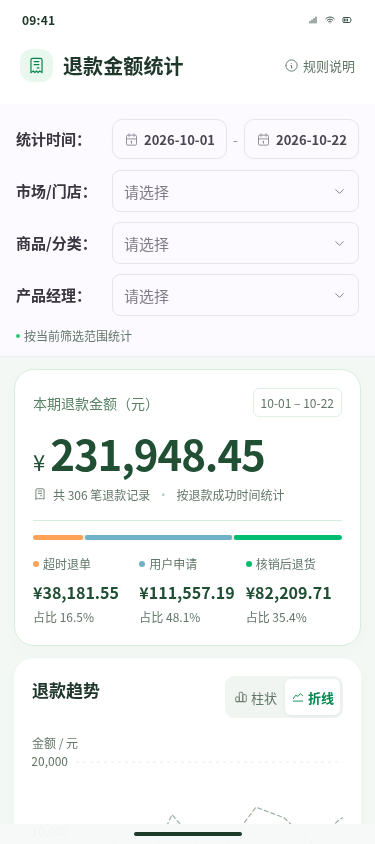
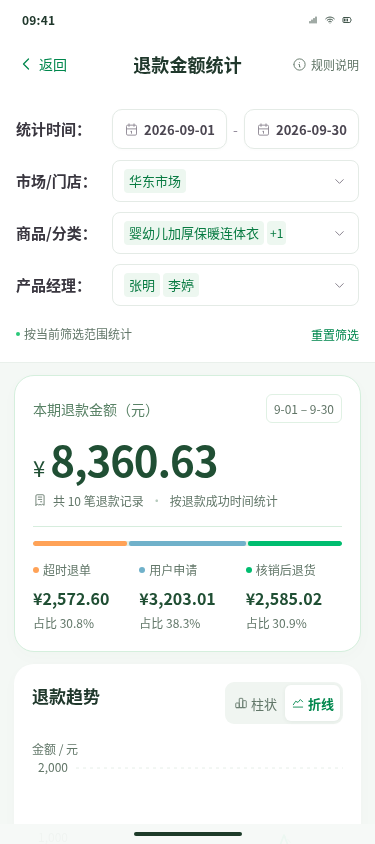
style: center page title and use white filter background

diff --git a/output/refund-report-mobile/index.html b/output/refund-report-mobile/index.html
@@ -163,15 +163,15 @@ button,input{font:inherit}button{cursor:pointer}button:disabled{cursor:default}b
 
 /* Reference: vertically aligned filters and a floating calendar range picker. */
 .phone{overflow:clip}
-.filters{padding:14px 16px 10px;background:#fcf9ff;position:relative;top:auto}
+.filters{padding:14px 16px 10px;background:#fff;position:relative;top:auto}
 .filter-grid{display:flex;flex-direction:column;gap:10px;padding:0}
 .frow,.date-filter-row{display:grid;grid-template-columns:88px minmax(0,1fr);align-items:center;gap:8px;min-width:0}
 .flab,.date-filter-label{margin:0;font-size:15px;font-weight:600;line-height:1.5;color:#39363f;white-space:nowrap}
-.fbox{height:42px;border:1px solid #e9e3ed;border-radius:8px;padding:0 11px;background:#fcf9ff;gap:8px}
+.fbox{height:42px;border:1px solid #e4ebe6;border-radius:8px;padding:0 11px;background:#fff;gap:8px}
 .fbox .ph{font-size:15px;color:#827c87}.fbox .car{color:#817b86}.car svg{width:15px;height:15px}
 .fbox .fchip{font-size:13px;line-height:24px;background:#edf7f0}.fbox .fchip.more{font-size:12px}
 .date-filter-row{margin-bottom:10px;min-height:42px}.date-range-fields{display:flex;align-items:center;gap:6px;min-width:0}
-.date-range-fields button{display:flex;align-items:center;justify-content:center;gap:5px;min-width:0;flex:1;height:40px;border:1px solid #e9e3ed;border-radius:10px;background:#fcf9ff;color:#4b4651;padding:0 6px;font-size:13px;font-weight:600;font-variant-numeric:tabular-nums;white-space:nowrap;box-shadow:0 1px 3px #51445d06}
+.date-range-fields button{display:flex;align-items:center;justify-content:center;gap:5px;min-width:0;flex:1;height:40px;border:1px solid #e4ebe6;border-radius:10px;background:#fff;color:#4b4651;padding:0 6px;font-size:13px;font-weight:600;font-variant-numeric:tabular-nums;white-space:nowrap;box-shadow:0 1px 3px #51445d06}
 .date-range-fields svg{width:15px;height:15px;color:#8f8994}.date-range-fields .date-separator{color:#958d9d;font-size:14px}
 .filter-meta{margin-top:10px;min-height:20px}.filter-note{font-size:12px}.clr{font-size:12px}
 .drawer[data-mode=date]{left:12px;right:12px;top:50%;bottom:auto;min-height:0;height:auto;max-height:calc(100% - 48px);border-radius:20px;overflow:hidden;transform:translateY(-46%) scale(.98);opacity:0;box-shadow:0 16px 64px #293a2d24;transition:opacity .2s,transform .2s}
@@ -189,6 +189,12 @@ button,input{font:inherit}button{cursor:pointer}button:disabled{cursor:default}b
 @media(max-width:360px){.filters{padding-left:12px;padding-right:12px}.frow,.date-filter-row{grid-template-columns:78px minmax(0,1fr);gap:5px}.flab,.date-filter-label{font-size:14px}.date-range-fields{gap:4px}.date-range-fields button{font-size:11px;gap:3px;padding:0 3px}.date-range-fields svg{width:12px;height:12px}.fbox .ph{font-size:14px}.calendar-toolbar{row-gap:5px}.calendar-month{width:100%;justify-content:space-between}.calendar-shortcuts{flex-basis:100%}.calendar-shortcuts button{font-size:12px}.calendar-days{row-gap:3px}.calendar-day{height:38px}.calendar-day span{width:31px;height:31px}.drawer[data-mode=date] .dft{padding-left:12px;padding-right:12px;gap:7px}.date-selection-summary[hidden]{display:none}.date-selection-summary{font-size:10px}.drawer[data-mode=date] .dft button{flex-basis:58px;font-size:14px}.drawer[data-mode=date] .dft .ok{flex-basis:64px}}
 @media(prefers-reduced-motion:reduce){.drawer,.dmask{transition:none!important}}
 
+/* Centered page navigation and white filter surface. */
+.nav{height:60px;padding:0 16px;justify-content:space-between;gap:0}
+.nav .brand-title{position:absolute;left:50%;top:50%;transform:translate(-50%,-50%);margin:0;font-size:18px;line-height:1.5;font-weight:600;white-space:nowrap;pointer-events:none}
+.nav-back{display:flex;align-items:center;gap:3px;min-height:44px;min-width:56px;margin-left:-4px;padding:0 4px;border:0;background:none;color:var(--pri);font-size:14px}
+.nav-back svg{width:20px;height:20px}.nav .help{margin-left:0;padding:10px 0;font-size:12px;min-height:44px}
+@media(max-width:360px){.nav{padding-left:12px;padding-right:12px}.nav .brand-title{font-size:17px}.nav-back{font-size:13px;min-width:52px}.nav .help{font-size:11px;gap:3px}}
 </style>
[1 lines of base64/hex data omitted]
 </head>
@@ -198,7 +204,7 @@ button,input{font:inherit}button{cursor:pointer}button:disabled{cursor:default}b
 
   <div class="phone">
     <div class="statusbar" aria-hidden="true"><span>09:41</span><div class="status-icons"><svg class="icon" xmlns="http://www.w3.org/2000/svg" width="18" height="18" viewBox="0 0 24 24" fill="none" stroke="currentColor" stroke-width="1.5" stroke-linecap="round" stroke-linejoin="round" aria-hidden="true"> <path stroke="none" d="M0 0h24v24H0z" fill="none"/> <path d="M6 18l0 -3" /> <path d="M10 18l0 -6" /> <path d="M14 18l0 -9" /> <path d="M18 18l0 -12" /> </svg><svg class="icon" xmlns="http://www.w3.org/2000/svg" width="18" height="18" viewBox="0 0 24 24" fill="none" stroke="currentColor" stroke-width="1.5" stroke-linecap="round" stroke-linejoin="round" aria-hidden="true"> <path stroke="none" d="M0 0h24v24H0z" fill="none"/> <path d="M12 18l.01 0" /> <path d="M9.172 15.172a4 4 0 0 1 5.656 0" /> <path d="M6.343 12.343a8 8 0 0 1 11.314 0" /> <path d="M3.515 9.515c4.686 -4.687 12.284 -4.687 17 0" /> </svg><svg class="icon" xmlns="http://www.w3.org/2000/svg" width="18" height="18" viewBox="0 0 24 24" fill="none" stroke="currentColor" stroke-width="1.5" stroke-linecap="round" stroke-linejoin="round" aria-hidden="true"> <path stroke="none" d="M0 0h24v24H0z" fill="none"/> <path d="M6 7h11a2 2 0 0 1 2 2v.5a.5 .5 0 0 0 .5 .5a.5 .5 0 0 1 .5 .5v3a.5 .5 0 0 1 -.5 .5a.5 .5 0 0 0 -.5 .5v.5a2 2 0 0 1 -2 2h-11a2 2 0 0 1 -2 -2v-6a2 2 0 0 1 2 -2" /> <path d="M7 10l0 4" /> <path d="M10 10l0 4" /> <path d="M13 10l0 4" /> </svg></div></div>
-    <header class="nav"><div class="brand-icon"><svg class="icon" xmlns="http://www.w3.org/2000/svg" width="18" height="18" viewBox="0 0 24 24" fill="none" stroke="currentColor" stroke-width="1.5" stroke-linecap="round" stroke-linejoin="round" aria-hidden="true"> <path stroke="none" d="M0 0h24v24H0z" fill="none"/> <path d="M5 21v-16a2 2 0 0 1 2 -2h10a2 2 0 0 1 2 2v16l-3 -2l-2 2l-2 -2l-2 2l-2 -2l-3 2m4 -14h6m-6 4h6m-2 4h2" /> </svg></div><div><div class="brand-title">退款金额统计</div></div><button class="help" id="btnHelp"><svg class="icon" xmlns="http://www.w3.org/2000/svg" width="18" height="18" viewBox="0 0 24 24" fill="none" stroke="currentColor" stroke-width="1.5" stroke-linecap="round" stroke-linejoin="round" aria-hidden="true"> <path stroke="none" d="M0 0h24v24H0z" fill="none"/> <path d="M3 12a9 9 0 1 0 18 0a9 9 0 0 0 -18 0" /> <path d="M12 9h.01" /> <path d="M11 12h1v4h1" /> </svg><span>规则说明</span></button></header>
+    <header class="nav"><button class="nav-back" id="btnBack" aria-label="返回上一页"><svg class="icon" xmlns="http://www.w3.org/2000/svg" width="18" height="18" viewBox="0 0 24 24" fill="none" stroke="currentColor" stroke-width="1.5" stroke-linecap="round" stroke-linejoin="round" aria-hidden="true"> <path stroke="none" d="M0 0h24v24H0z" fill="none"/> <path d="M15 6l-6 6l6 6" /> </svg><span>返回</span></button><h1 class="brand-title">退款金额统计</h1><button class="help" id="btnHelp"><svg class="icon" xmlns="http://www.w3.org/2000/svg" width="18" height="18" viewBox="0 0 24 24" fill="none" stroke="currentColor" stroke-width="1.5" stroke-linecap="round" stroke-linejoin="round" aria-hidden="true"> <path stroke="none" d="M0 0h24v24H0z" fill="none"/> <path d="M3 12a9 9 0 1 0 18 0a9 9 0 0 0 -18 0" /> <path d="M12 9h.01" /> <path d="M11 12h1v4h1" /> </svg><span>规则说明</span></button></header>
 
     <div class="scroll">
       <section class="filters" aria-label="统计筛选">
@@ -1119,6 +1125,7 @@ $('#dOk').onclick=()=>{
 };
 $('#btnClear').onclick=()=>{state.mode='product';state.p=[];state.c=[];state.mk=[];state.pm=[];state.range='month';render();};
 $('#pBack').onclick=()=>{if(state.detail==='store'&&state.storeM!==null){state.storeM=null;renderDetail();}else backHome();};
+$('#btnBack').onclick=()=>window.history.back();
 $('#btnHelp').onclick=()=>{helpReturnFocus=document.activeElement;$('#hbox').inert=false;$('#hbox').setAttribute('aria-hidden','false');$('#hmask').classList.add('show');$('#hbox').classList.add('show');lockBackground(true);$('#hClose').focus({preventScroll:true});};
 $('#hClose').onclick=closeHelp;$('#hmask').onclick=closeHelp;
 function closeHelp(){$('#hmask').classList.remove('show');$('#hbox').classList.remove('show');$('#hbox').inert=true;$('#hbox').setAttribute('aria-hidden','true');lockBackground(false);if(helpReturnFocus)helpReturnFocus.focus({preventScroll:true});}

diff --git a/output/refund-report-mobile/design-qa.md b/output/refund-report-mobile/design-qa.md
@@ -16,7 +16,7 @@
 | --- | --- |
 | 字体与层级 | 使用现有系统中文字体；标签 14–15px、日历标题 19px、日期 16px；快捷项 12px，小屏不截断 |
 | 布局与间距 | 时间、市场/门店、商品/分类、产品经理纵向排列；左侧标签、右侧控件对齐；日历为居中浮窗，包含月份切换、快捷项、周标题、六行日期和固定底部操作 |
-| 颜色与状态 | 筛选区域采用参考图的淡紫白底及浅色边框；日历选中日期和确认按钮为绿色；保留其余页面原有配色 |
+| 颜色与状态 | 筛选区域按最新要求改为白底及浅灰绿边框；日历选中日期和确认按钮为绿色；保留其余页面原有配色 |
 | 图标与图像 | 继续使用内嵌 Tabler 图标；本次区域无新增栅格图片，不用截图替代交互组件 |
 | 内容 | 未选显示“请选择”；浮窗标题“筛选日期”；快捷项为今日/昨日/本周/本月/全部；底部展示开始/结束时间、重置和确定 |
 
@@ -36,6 +36,8 @@
 - 商品/分类、市场/门店、产品经理多选正常；其他弹层不显示日期摘要。
 - 首页重置恢复本月；图表沿用当前筛选范围。
 - 320/375/485px 全流程无未捕获脚本错误、无页面横向溢出；600/667px 高度下确定按钮可达。
+
+后续标题与背景调整：筛选区域和输入框白底；首页标题居中，常规 18px、小屏 17px；左侧返回按钮调用浏览器历史返回。320/375/485px 下校验标题几何居中且不与两侧操作重叠，日期及规则弹层正常，未发现脚本错误。
 
 本地检查未发现剩余 P0/P1/P2 问题；系统字体在不同设备上的微小差异属于后续观察项。未在 iOS/Android 真机运行。
 
